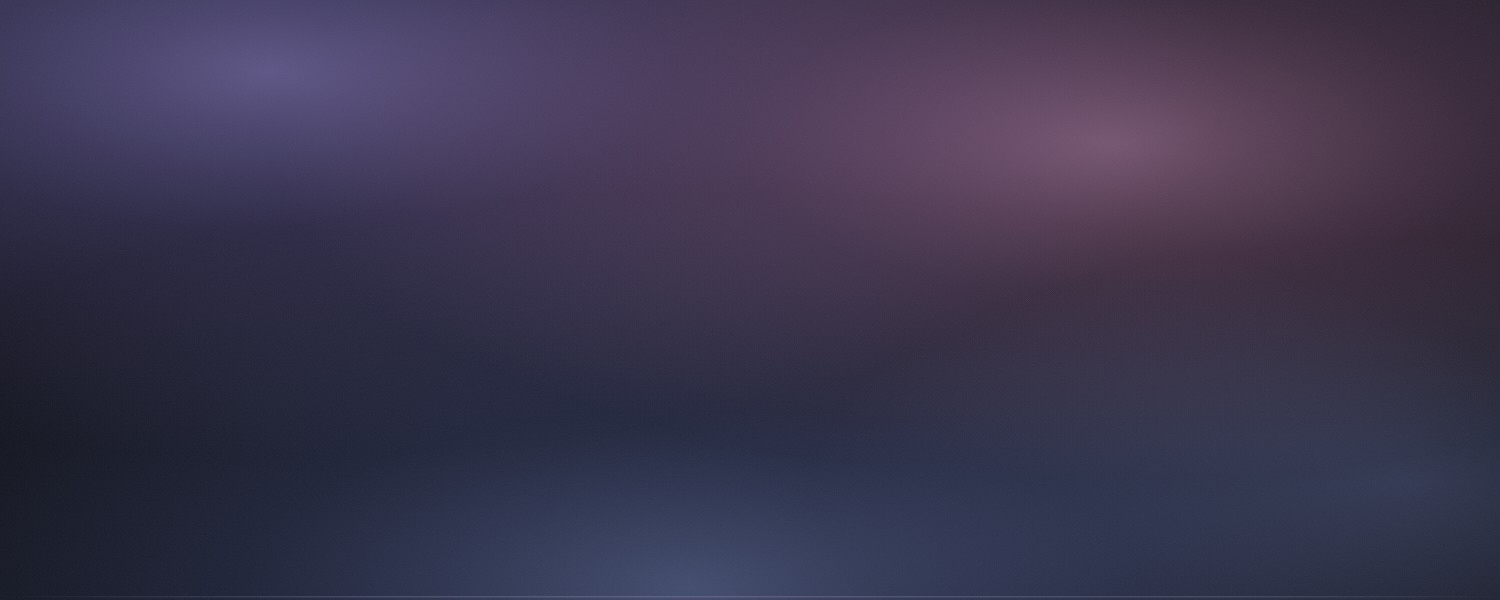
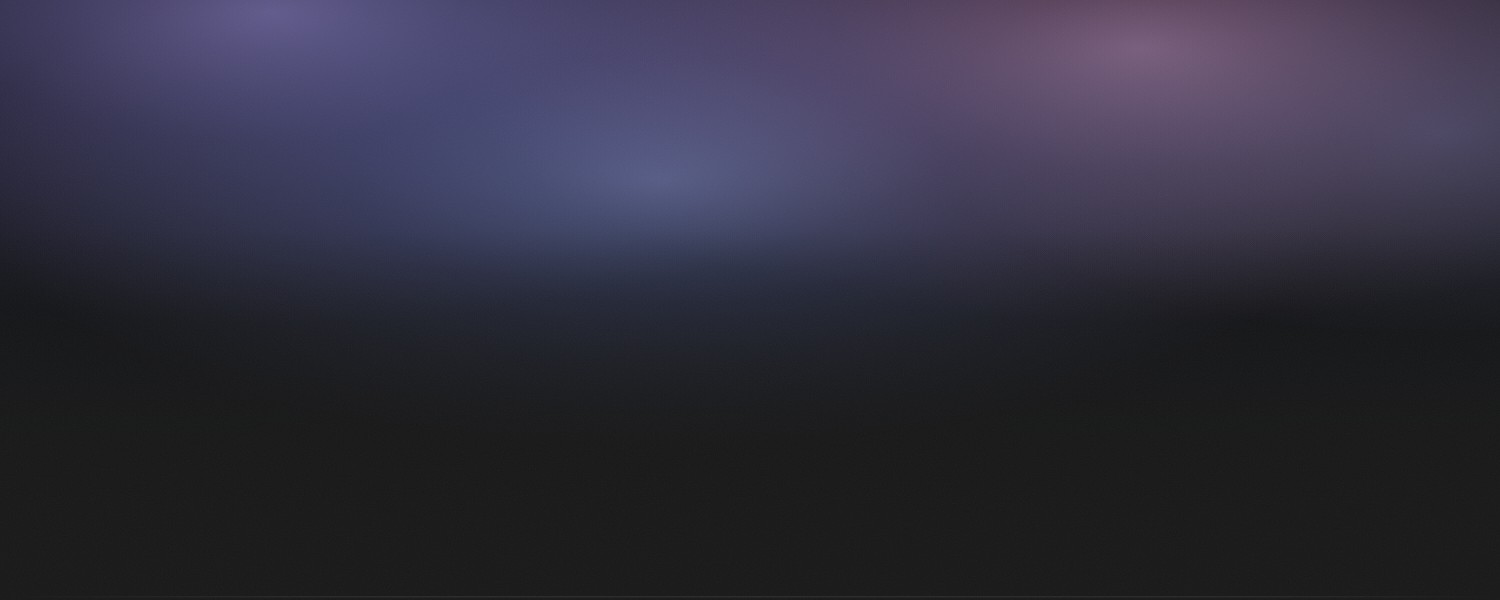
Widget und Cover mit der Notion-Seite verschmelzen
Das Widget lag als eigener Kasten auf der Seite und das Cover endete an
einer sichtbaren Kante — beides sah aufgesetzt aus statt eingebunden.

Widget: nahtloser Modus als Standard. Der Grund entspricht Notions
Seitenfarbe (#191919 dunkel, #FFFFFF hell), die Karte verliert Rahmen,
Rundung und Schatten. ?card=1 stellt den Rahmen wieder her, wenn man das
Widget allein im Browser öffnet.

Ambiente im Widget abgeschaltet, sobald es nahtlos läuft: ohne Karte füllt
das Licht die komplette Einbettungsbreite und wird aus einer Lichtstimmung
ein farbiger Balken. Die Stimmung trägt das Cover direkt darüber.

Cover: Lichtquellen nach oben gezogen, Unterkante läuft ab y=230 über
370 px in #191919 aus. Notion beschneidet mittig, deshalb reichte ein
Verlauf in den letzten 180 px nicht. Farbsprung an der Übergangsstelle
gemessen: 44 von 255 vorher, jetzt 6.

Thema: Ein Embed kann Notions Thema nicht auslesen, die Medienabfrage im
iframe meldet das Thema des Rechners. Bei dunklem Notion und hellem System
stand ein weißer Block auf dunkler Seite. Das Thema steht jetzt in der
Widget-Adresse (?theme=), gesetzt über NOVERA_NOTION_THEME bzw. das neue
Auswahlfeld im Actions-Lauf; Voreinstellung dunkel, auto überlässt es dem
Rechner. Die Farbpalette hängt entsprechend an data-theme statt an
prefers-color-scheme, gestempelt von einem Kopf-Skript vor dem ersten
Anstrich.

Die Prüfung deckt den neuen Fall ab: Widget-Embeds müssen theme= tragen.
[…]

diff --git a/widget/index.html b/widget/index.html
@@ -5,6 +5,17 @@
 <meta name="viewport" content="width=device-width, initial-scale=1">
 <title>Novera Studio — Command Center</title>
 <link rel="icon" href="brand/favicon.svg">
+<script>
+  /* Läuft vor dem ersten Anstrich, damit kein Themenwechsel aufblitzt.
+     ?theme=dark|light schlägt das System-Thema — nötig, weil das Embed
+     Notions eigene Einstellung nicht lesen kann. */
+  (function () {
+    var w = new URLSearchParams(location.search).get("theme");
+    var hell = w === "light" || (w !== "dark" &&
+      window.matchMedia && window.matchMedia("(prefers-color-scheme: light)").matches);
+    document.documentElement.setAttribute("data-theme", hell ? "light" : "dark");
+  })();
+</script>
 <style>
   /* Schriften und Farben stammen aus dem Novera-Studio-Webauftritt
      (css/novera.css, fonts/). Nichts wird nachgebaut oder angenähert. */
@@ -65,34 +76,37 @@
     --amb-blau-in: rgba(147, 169, 242, .10);
   }
 
-  /* Der Hellmodus der Marke dreht den Verlauf ins Graphit. */
-  @media (prefers-color-scheme: light) {
-    :root {
-      color-scheme: light;
-      --void:      #FBFBFC;
-      --carbon:    #F3F4F6;
-      --slate:     #FFFFFF;
-      --elevated:  #FFFFFF;
-      --platinum:  #12161B;
-      --silver:    #545C66;
-      --muted:     #69717A;
-      --line:        rgba(18, 22, 27, .10);
-      --line-strong: rgba(18, 22, 27, .19);
-      --glow:        rgba(120, 155, 200, .24);
-      --glow-soft:   rgba(120, 155, 200, .13);
-      --chrome-0: #2A2E35;
-      --chrome-1: #101216;
-      --chrome-2: #3A404A;
-      --chrome-3: #14171C;
-      --chrome-4: #22262D;
-      --karte:   linear-gradient(168deg, rgba(18,22,27,.028), rgba(18,22,27,0) 55%);
-      --amb-lila: rgba(140, 122, 214, .22);
-      --amb-pink: rgba(214, 132, 182, .17);
-      --amb-blau: rgba(120, 142, 214, .17);
-      --amb-lila-in: rgba(140, 122, 214, .07);
-      --amb-pink-in: rgba(214, 132, 182, .06);
-      --amb-blau-in: rgba(120, 142, 214, .06);
-    }
+  /* Der Hellmodus der Marke dreht den Verlauf ins Graphit.
+     Gesteuert über data-theme am <html> statt über prefers-color-scheme:
+     In einem Notion-Embed meldet die Medienabfrage das System-Thema, nicht
+     das von Notion. Wer Notion dunkel und das System hell nutzt, bekäme
+     sonst einen weißen Block auf dunkler Seite. Das Kopf-Skript setzt
+     data-theme aus ?theme= oder — ohne Angabe — aus dem System-Thema. */
+  :root[data-theme="light"] {
+    color-scheme: light;
+    --void:      #FBFBFC;
+    --carbon:    #F3F4F6;
+    --slate:     #FFFFFF;
+    --elevated:  #FFFFFF;
+    --platinum:  #12161B;
+    --silver:    #545C66;
+    --muted:     #69717A;
+    --line:        rgba(18, 22, 27, .10);
+    --line-strong: rgba(18, 22, 27, .19);
+    --glow:        rgba(120, 155, 200, .24);
+    --glow-soft:   rgba(120, 155, 200, .13);
+    --chrome-0: #2A2E35;
+    --chrome-1: #101216;
+    --chrome-2: #3A404A;
+    --chrome-3: #14171C;
+    --chrome-4: #22262D;
+    --karte:   linear-gradient(168deg, rgba(18,22,27,.028), rgba(18,22,27,0) 55%);
+    --amb-lila: rgba(140, 122, 214, .22);
+    --amb-pink: rgba(214, 132, 182, .17);
+    --amb-blau: rgba(120, 142, 214, .17);
+    --amb-lila-in: rgba(140, 122, 214, .07);
+    --amb-pink-in: rgba(214, 132, 182, .06);
+    --amb-blau-in: rgba(120, 142, 214, .06);
   }
 
 
@@ -141,6 +155,34 @@
   }
 
   /* Wer Bewegung reduziert, bekommt das Licht — nur ohne Wandern. */
+  /* ── Nahtlos ─────────────────────────────────────────────────────────
+     Standard für die Einbettung in Notion: Der Grund entspricht der
+     Notion-Seite, die Karte verliert Rahmen, Rundung und Schatten. Damit
+     sitzt der Inhalt auf der Seite statt in einem Kasten darauf.
+     Mit ?card=1 kommt der Rahmen zurück — sinnvoll, wenn man das Widget
+     allein im Browser öffnet.
+  */
+  body.nahtlos { background: var(--notion-grund); padding: 0; }
+  body.nahtlos .card {
+    background-color: transparent;
+    background-image: none;
+    border: none;
+    border-radius: 0;
+    box-shadow: none;
+    max-width: none;
+  }
+  body.nahtlos .card::before { display: none; }
+
+  /* Kein Ambiente-Licht im nahtlosen Modus.
+     Ohne Karte füllt es sonst den kompletten Einbettungsrahmen und legt einen
+     farbigen Block auf die Seite — das Gegenteil von verschmelzen. Die
+     Lichtstimmung trägt das Cover darüber; hier bleibt reiner Inhalt. */
+  body.nahtlos::before,
+  body.nahtlos::after { display: none; }
+
+  /* Eng gesetzt, damit im Einbettungsrahmen kein leeres Band entsteht. */
+  body.nahtlos .card { padding: 4px 2px; }
+
   @media (prefers-reduced-motion: reduce) {
     body.ambient::before,
     body.ambient::after { animation: none; }
@@ -157,6 +199,11 @@
   }
 
   .card { z-index: 1; }
+
+  /* Notions eigene Seitenfarben. Der Grund lässt sich in Notion nicht ändern —
+     also passt sich das Widget an, statt als fremder Kasten darauf zu liegen. */
+  :root { --notion-grund: #191919; }
+  :root[data-theme="light"] { --notion-grund: #FFFFFF; }
 
   * { margin: 0; padding: 0; box-sizing: border-box; }
   html, body { height: 100%; }
@@ -361,6 +408,12 @@
   // Ambiente-Licht. Standard an, mit ?ambient=off aus.
   if ((params.get("ambient") || "on") !== "off") {
     document.body.classList.add("ambient");
+  }
+
+  // Nahtlos ist der Standard: In Notion soll das Widget Teil der Seite sein,
+  // kein aufgesetzter Kasten. ?card=1 stellt den Rahmen wieder her.
+  if (params.get("card") !== "1") {
+    document.body.classList.add("nahtlos");
   }
 
   var lang = params.get("lang") || (navigator.language || "de").slice(0, 2);

diff --git a/widget/focus.html b/widget/focus.html
@@ -5,6 +5,17 @@
 <meta name="viewport" content="width=device-width, initial-scale=1">
 <title>Novera Studio — Fokus</title>
 <link rel="icon" href="brand/favicon.svg">
+<script>
+  /* Läuft vor dem ersten Anstrich, damit kein Themenwechsel aufblitzt.
+     ?theme=dark|light schlägt das System-Thema — nötig, weil das Embed
+     Notions eigene Einstellung nicht lesen kann. */
+  (function () {
+    var w = new URLSearchParams(location.search).get("theme");
+    var hell = w === "light" || (w !== "dark" &&
+      window.matchMedia && window.matchMedia("(prefers-color-scheme: light)").matches);
+    document.documentElement.setAttribute("data-theme", hell ? "light" : "dark");
+  })();
+</script>
 <style>
   @font-face {
     font-family: 'Inter';
@@ -41,23 +52,27 @@
     --amb-pink-in: rgba(244, 169, 218, .10);
     --amb-blau-in: rgba(147, 169, 242, .10);
   }
-  @media (prefers-color-scheme: light) {
-    :root {
-      color-scheme: light;
-      --void:#FBFBFC; --slate:#FFFFFF;
-      --platinum:#12161B; --silver:#545C66; --muted:#69717A;
-      --line: rgba(18,22,27,.10); --line-strong: rgba(18,22,27,.19);
-      --glow-soft: rgba(120,155,200,.13);
-      --chrome-0:#2A2E35; --chrome-1:#101216; --chrome-2:#3A404A;
-      --chrome-3:#14171C; --chrome-4:#22262D;
-      --karte: linear-gradient(168deg, rgba(18,22,27,.028), rgba(18,22,27,0) 55%);
-      --amb-lila: rgba(140, 122, 214, .22);
-      --amb-pink: rgba(214, 132, 182, .17);
-      --amb-blau: rgba(120, 142, 214, .17);
-      --amb-lila-in: rgba(140, 122, 214, .07);
-      --amb-pink-in: rgba(214, 132, 182, .06);
-      --amb-blau-in: rgba(120, 142, 214, .06);
-    }
+  /* Der Hellmodus der Marke dreht den Verlauf ins Graphit.
+     Gesteuert über data-theme am <html> statt über prefers-color-scheme:
+     In einem Notion-Embed meldet die Medienabfrage das System-Thema, nicht
+     das von Notion. Wer Notion dunkel und das System hell nutzt, bekäme
+     sonst einen weißen Block auf dunkler Seite. Das Kopf-Skript setzt
+     data-theme aus ?theme= oder — ohne Angabe — aus dem System-Thema. */
+  :root[data-theme="light"] {
+    color-scheme: light;
+    --void:#FBFBFC; --slate:#FFFFFF;
+    --platinum:#12161B; --silver:#545C66; --muted:#69717A;
+    --line: rgba(18,22,27,.10); --line-strong: rgba(18,22,27,.19);
+    --glow-soft: rgba(120,155,200,.13);
+    --chrome-0:#2A2E35; --chrome-1:#101216; --chrome-2:#3A404A;
+    --chrome-3:#14171C; --chrome-4:#22262D;
+    --karte: linear-gradient(168deg, rgba(18,22,27,.028), rgba(18,22,27,0) 55%);
+    --amb-lila: rgba(140, 122, 214, .22);
+    --amb-pink: rgba(214, 132, 182, .17);
+    --amb-blau: rgba(120, 142, 214, .17);
+    --amb-lila-in: rgba(140, 122, 214, .07);
+    --amb-pink-in: rgba(214, 132, 182, .06);
+    --amb-blau-in: rgba(120, 142, 214, .06);
   }
 
 
@@ -106,6 +121,34 @@
   }
 
   /* Wer Bewegung reduziert, bekommt das Licht — nur ohne Wandern. */
+  /* ── Nahtlos ─────────────────────────────────────────────────────────
+     Standard für die Einbettung in Notion: Der Grund entspricht der
+     Notion-Seite, die Karte verliert Rahmen, Rundung und Schatten. Damit
+     sitzt der Inhalt auf der Seite statt in einem Kasten darauf.
+     Mit ?card=1 kommt der Rahmen zurück — sinnvoll, wenn man das Widget
+     allein im Browser öffnet.
+  */
+  body.nahtlos { background: var(--notion-grund); padding: 0; }
+  body.nahtlos .card {
+    background-color: transparent;
+    background-image: none;
+    border: none;
+    border-radius: 0;
+    box-shadow: none;
+    max-width: none;
+  }
+  body.nahtlos .card::before { display: none; }
+
+  /* Kein Ambiente-Licht im nahtlosen Modus.
+     Ohne Karte füllt es sonst den kompletten Einbettungsrahmen und legt einen
+     farbigen Block auf die Seite — das Gegenteil von verschmelzen. Die
+     Lichtstimmung trägt das Cover darüber; hier bleibt reiner Inhalt. */
+  body.nahtlos::before,
+  body.nahtlos::after { display: none; }
+
+  /* Eng gesetzt, damit im Einbettungsrahmen kein leeres Band entsteht. */
+  body.nahtlos .card { padding: 4px 2px; }
+
   @media (prefers-reduced-motion: reduce) {
     body.ambient::before,
     body.ambient::after { animation: none; }
@@ -122,6 +165,9 @@
   }
 
   .card { z-index: 1; }
+
+  :root { --notion-grund: #191919; }
+  :root[data-theme="light"] { --notion-grund: #FFFFFF; }
 
   * { margin:0; padding:0; box-sizing:border-box; }
   html, body { height:100%; }
@@ -238,6 +284,12 @@
   // Ambiente-Licht. Standard an, mit ?ambient=off aus.
   if ((params.get("ambient") || "on") !== "off") {
     document.body.classList.add("ambient");
+  }
+
+  // Nahtlos ist der Standard: In Notion soll das Widget Teil der Seite sein,
+  // kein aufgesetzter Kasten. ?card=1 stellt den Rahmen wieder her.
+  if (params.get("card") !== "1") {
+    document.body.classList.add("nahtlos");
   }
 
   var num     = function (key, fallback) {

diff --git a/docs/BRANDING.md b/docs/BRANDING.md
@@ -74,9 +74,16 @@ An drei Stellen:
 
 | Wo | Was |
 |---|---|
-| HQ-Seite | Cover-Bild — Violett links, Rosé rechts, warmer Schimmer unten |
+| HQ-Seite | Cover-Bild — Lila links, Rosé rechts, Blau in der Mitte, nach unten auslaufend |
 | Sektionsbänder | `purple_background` statt `gray_background` |
-| Widgets | drei Lichtwolken hinter der Karte, langsam wandernd, plus ein sehr feiner Schimmer auf der Karte selbst |
+| Widgets | drei Lichtwolken hinter der Karte, langsam wandernd — nur im Rahmenmodus (`?card=1`) |
+
+**Das Licht liegt im Cover, nicht im Widget.** In Notion laufen die Widgets
+nahtlos: kein Rahmen, kein Kasten, der Grund entspricht der Seite. Damit füllt
+das Ambiente-Licht nicht mehr eine Karte, sondern die komplette
+Einbettungsbreite — es wird aus einer Lichtstimmung ein farbiger Balken. Deshalb
+ist es dort abgeschaltet. Die Stimmung trägt das Cover direkt darüber; das
+Widget bleibt reiner Inhalt auf demselben Grund.
 
 Schalter in `.env`:
 
@@ -87,6 +94,18 @@ NOVERA_AMBIENT=off    # durchgehend monochrom
 
 Bei `off` verschwinden Cover und Tönung; das Ergebnis ist exakt der vorherige
 Zustand. In den Widgets steuert `?ambient=off` dasselbe.
+
+### Die Unterkante des Covers
+
+Notions Seitengrund lässt sich weder über die API noch über CSS ändern — er ist
+`#191919` im Dunkelmodus. Ein Cover, das an einer eigenen Farbe endet, sieht
+darunter aus wie ein aufgeklebtes Bild. Das Cover läuft deshalb ab `y=230` über
+370 px in genau dieses `#191919` aus, und die Lichtquellen sitzen entsprechend
+weit oben. Notion beschneidet das Cover mittig, weshalb ein Verlauf nur in den
+letzten 180 px nicht ausreicht — die Kante lag dann sichtbar im Bild.
+
+Gemessen an der Übergangsstelle: Der Farbsprung liegt bei **6 von 255** statt
+zuvor 44 — unterhalb der Wahrnehmungsschwelle auf einem normalen Display.
 
 Das Licht in den Widgets wandert über 54 bzw. 68 Sekunden — langsam genug, dass
 es nicht auffällt, während man auf die Seite schaut. Wer im System

diff --git a/docs/SETUP.md b/docs/SETUP.md
@@ -259,6 +259,9 @@ Sprache und Zeitformat über die URL:
 | `…/?tz=America/New_York` | eine andere Zeitzone |
 | `…/focus.html?work=50&break=10` | Timer mit 50/10 statt 25/5 |
 | `…/?ambient=off` | ohne Ambiente-Licht |
+| `…/?theme=dark` | dunkel, unabhängig vom Thema des Rechners |
+| `…/?theme=light` | hell, unabhängig vom Thema des Rechners |
+| `…/?card=1` | mit Rahmen statt nahtlos — für den Aufruf im Browser |
 
 Das Ambiente-Licht — Cover auf dem HQ, violett getönte Sektionsbänder, weiche
 Lichtwolken in den Widgets — lässt sich in `.env` abschalten:
@@ -266,6 +269,28 @@ Lichtwolken in den Widgets — lässt sich in `.env` abschalten:
 ```
 NOVERA_AMBIENT=off
 ```
+
+### Nahtlos statt Kasten
+
+In Notion laufen die Widgets ohne Rahmen, Rundung und Schatten: Der Grund
+entspricht der Notion-Seite, sodass Logo und Uhr auf der Seite sitzen statt in
+einem aufgesetzten Kasten. Das Ambiente-Licht trägt in dieser Ansicht das
+Cover darüber — im Widget selbst wäre es ein farbiger Block über die volle
+Einbettungsbreite.
+
+### Thema
+
+Ein Embed kann Notions Thema nicht auslesen; die Medienabfrage im iframe meldet
+das Thema des Rechners. Bei dunklem Notion und hellem macOS stünde sonst ein
+weißer Block auf dunkler Seite. Der Builder schreibt das Thema deshalb in die
+Adresse — voreingestellt dunkel:
+
+```
+NOVERA_NOTION_THEME=dark    # oder: light, auto
+```
+
+`auto` überlässt die Entscheidung dem Rechner. Im Actions-Lauf steht dieselbe
+Einstellung als Auswahlfeld **Notion-Thema** bereit.
 
 ---
 

diff --git a/docs/OHNE-TERMINAL.md b/docs/OHNE-TERMINAL.md
@@ -134,13 +134,19 @@ Workflow noch nicht durch — im Reiter **Actions** nachsehen.
 
 1. Reiter **Actions** → links **Novera HQ in Notion bauen**
 2. Rechts **Run workflow**
-3. Die drei Schalter stehen richtig voreingestellt:
+3. Die Schalter stehen richtig voreingestellt:
 
 | Schalter | Standard | Bedeutung |
 |---|---|---|
 | Beispieldaten | an | Musterkunde mit Projekt, Website, Angebot, Aufgaben |
 | Ambiente-Licht | an | Cover und getönte Sektionsbänder |
 | Nur testen | aus | an = nichts in Notion schreiben, nur prüfen |
+| Dashboard neu | aus | an = Dashboard verwerfen und neu aufbauen |
+| Notion-Thema | dark | auf `light` stellen, wenn Notion hell läuft |
+
+**Notion-Thema:** Ein eingebettetes Widget kann nicht erkennen, ob Notion hell
+oder dunkel läuft — es sieht nur das Thema des Rechners. Deshalb wird es hier
+gesetzt. Steht es falsch, liegt ein weißer Kasten auf der dunklen Seite.
 
 4. **Run workflow**
 
